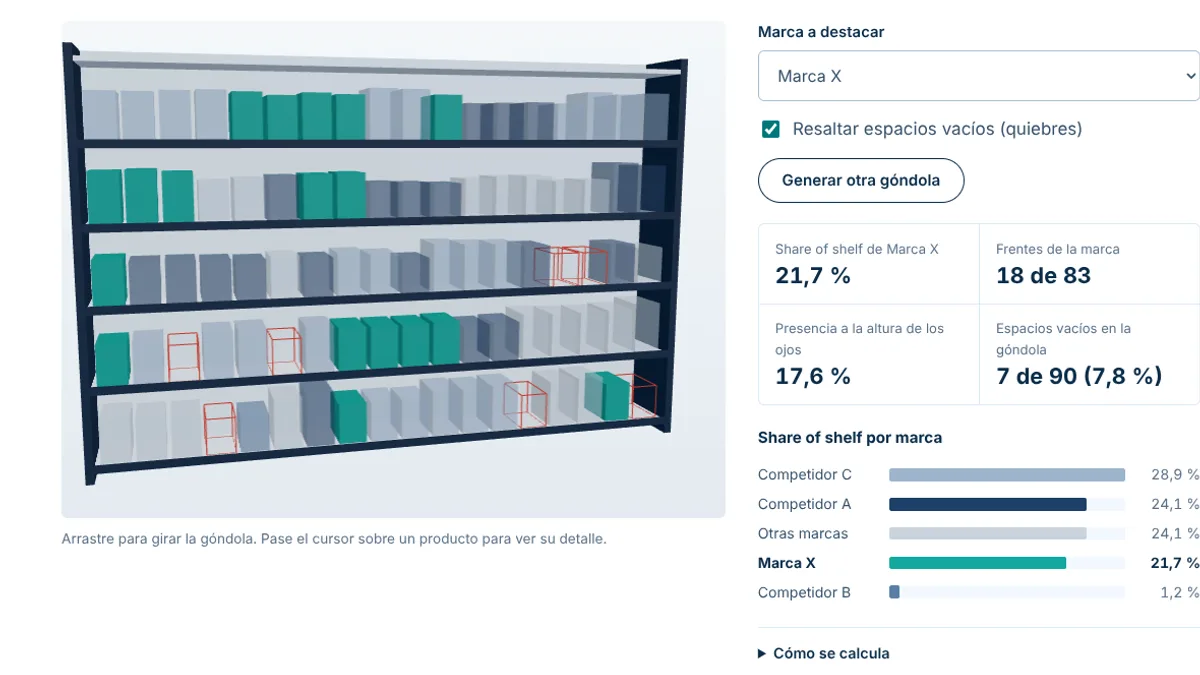
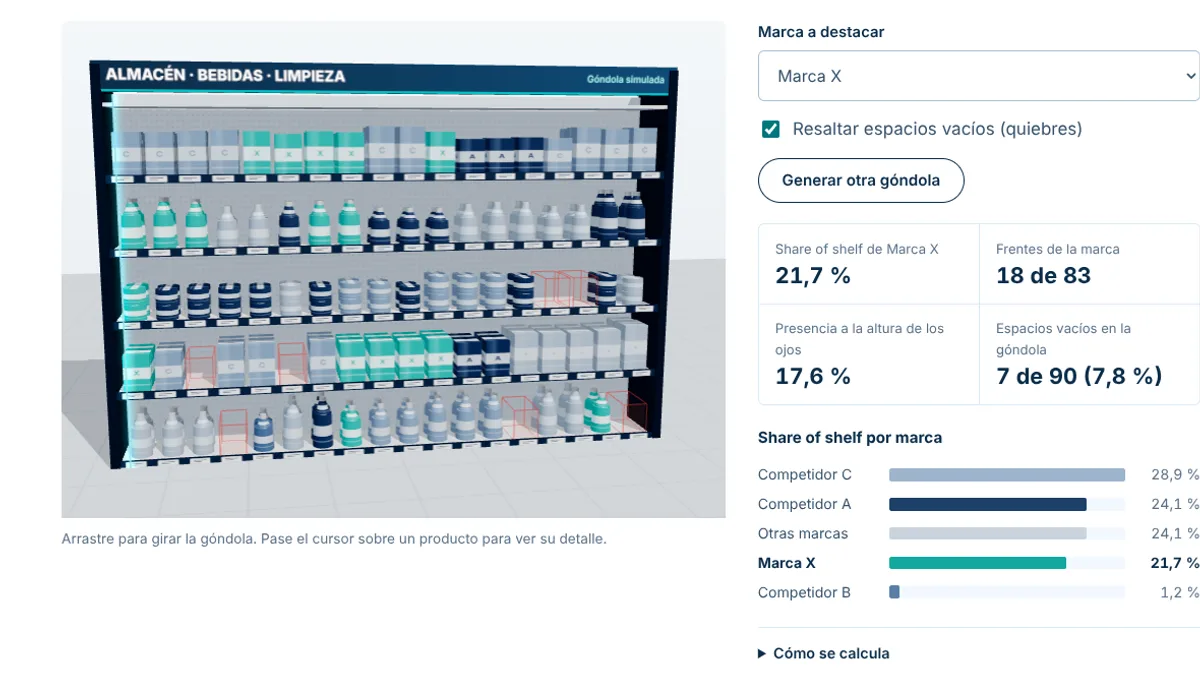
Góndola 3D: envases realistas, cartel, piso con sombras, haz de escaneo y vaivén automático
Claude-Session: https://claude.ai/code/session_01Cv3uZTgXXG78sRjimNaupE

Changed region(s): [[0.0308, 0.0622, 0.6167, 0.7778]]

diff --git a/src/assets/js/demo-gondola.js b/src/assets/js/demo-gondola.js
@@ -62,57 +62,141 @@ function iniciar() {
   const renderer = new THREE.WebGLRenderer({ antialias: true, alpha: true, preserveDrawingBuffer: true });
   renderer.setPixelRatio(Math.min(window.devicePixelRatio || 1, 2));
   renderer.outputColorSpace = THREE.SRGBColorSpace;
+  renderer.toneMapping = THREE.ACESFilmicToneMapping;
+  renderer.toneMappingExposure = 1.08;
+  renderer.shadowMap.enabled = true;
+  renderer.shadowMap.type = THREE.PCFSoftShadowMap;
   cont.appendChild(renderer.domElement);
   const escena = new THREE.Scene();
   const camara = new THREE.PerspectiveCamera(32, 1, 0.1, 100);
-  escena.add(new THREE.HemisphereLight(0xffffff, 0xb8c6d4, 1.6));
-  const luz = new THREE.DirectionalLight(0xffffff, 1.4); luz.position.set(3, 6, 8); escena.add(luz);
+  escena.add(new THREE.HemisphereLight(0xffffff, 0xaab9c9, 1.15));
+  const luz = new THREE.DirectionalLight(0xffffff, 1.9);
+  luz.position.set(4, 9, 9); luz.castShadow = true;
+  luz.shadow.mapSize.set(2048, 2048); Object.assign(luz.shadow.camera, { left: -7, right: 7, top: 8, bottom: -2, near: 1, far: 30 }); luz.shadow.bias = -0.0008;
+  escena.add(luz);
+  const relleno = new THREE.DirectionalLight(0xcfe9ff, 0.6); relleno.position.set(-6, 4, 5); escena.add(relleno);
 
   const ANCHO = 9, ALTO_E = 1.15, PROF = 1.1, paso = ANCHO / POSICIONES;
   const mueble = new THREE.Group();
-  const pieza = (geo, mat, x, y, z) => { const m = new THREE.Mesh(geo, mat); m.position.set(x, y, z); return m; };
-  const matMueble = new THREE.MeshStandardMaterial({ color: 0xe9eef3, roughness: 0.9 });
-  const matBorde = new THREE.MeshStandardMaterial({ color: 0x0e2a47, roughness: 0.6 });
-  mueble.add(pieza(new THREE.BoxGeometry(ANCHO + 0.3, ESTANTES * ALTO_E + 0.4, 0.08), matMueble, 0, (ESTANTES * ALTO_E) / 2, -PROF / 2));
-  [-1, 1].forEach((lado) => mueble.add(pieza(new THREE.BoxGeometry(0.12, ESTANTES * ALTO_E + 0.4, PROF), matBorde, lado * (ANCHO / 2 + 0.11), (ESTANTES * ALTO_E) / 2, 0)));
+  const pieza = (geo, mat, x, y, z, sombra = true) => { const m = new THREE.Mesh(geo, mat); m.position.set(x, y, z); m.castShadow = sombra; m.receiveShadow = true; return m; };
+  const lienzo = (w, h, dibujar) => { const c = document.createElement("canvas"); c.width = w; c.height = h; dibujar(c.getContext("2d"), w, h); const t = new THREE.CanvasTexture(c); t.colorSpace = THREE.SRGBColorSpace; t.anisotropy = 8; return t; };
+
+  // Fondo perforado del mueble
+  const texFondo = lienzo(256, 256, (g, w, h) => { g.fillStyle = "#EEF2F6"; g.fillRect(0, 0, w, h); g.fillStyle = "#C9D3DD"; for (let y = 8; y < h; y += 16) for (let x = 8; x < w; x += 16) { g.beginPath(); g.arc(x, y, 2.2, 0, Math.PI * 2); g.fill(); } });
+  texFondo.wrapS = texFondo.wrapT = THREE.RepeatWrapping; texFondo.repeat.set(7, 4);
+  const matMueble = new THREE.MeshStandardMaterial({ color: 0xf3f6f9, roughness: 0.55, metalness: 0.15 });
+  const matBorde = new THREE.MeshStandardMaterial({ color: 0x0b2d4a, roughness: 0.35, metalness: 0.5 });
+  mueble.add(pieza(new THREE.BoxGeometry(ANCHO + 0.3, ESTANTES * ALTO_E + 0.4, 0.08), new THREE.MeshStandardMaterial({ map: texFondo, roughness: 0.8 }), 0, (ESTANTES * ALTO_E) / 2, -PROF / 2));
+  [-1, 1].forEach((lado) => mueble.add(pieza(new THREE.BoxGeometry(0.14, ESTANTES * ALTO_E + 0.9, PROF + 0.1), matBorde, lado * (ANCHO / 2 + 0.12), (ESTANTES * ALTO_E + 0.5) / 2 - 0.1, 0)));
+  // Cartel superior iluminado
+  const texCartel = lienzo(2048, 100, (g, w, h) => {
+    const gr = g.createLinearGradient(0, 0, w, 0); gr.addColorStop(0, "#0B2D4A"); gr.addColorStop(1, "#0F4C78"); g.fillStyle = gr; g.fillRect(0, 0, w, h);
+    g.fillStyle = "#00C2C7"; g.fillRect(0, h - 8, w, 8);
+    g.fillStyle = "#FFFFFF"; g.font = "800 50px Inter, Segoe UI, Arial, sans-serif"; g.textBaseline = "middle"; g.fillText("ALMACÉN · BEBIDAS · LIMPIEZA", 48, h / 2 - 4);
+    g.fillStyle = "#9FF3F2"; g.font = "600 34px Inter, Segoe UI, Arial, sans-serif"; g.textAlign = "right"; g.fillText("Góndola simulada", w - 48, h / 2 - 4);
+  });
+  const cartel = pieza(new THREE.BoxGeometry(ANCHO + 0.38, 0.46, 0.12), [matBorde, matBorde, matBorde, matBorde, new THREE.MeshBasicMaterial({ map: texCartel, toneMapped: false }), matBorde], 0, ESTANTES * ALTO_E + 0.42, PROF / 2 - 0.05);
+  mueble.add(cartel);
+  // Estantes con frentes de precio
+  const texRiel = lienzo(1024, 32, (g, w, h) => { g.fillStyle = "#0B2D4A"; g.fillRect(0, 0, w, h); for (let i = 0; i < POSICIONES; i++) { const x = (i + 0.5) * (w / POSICIONES); g.fillStyle = "#FFFFFF"; g.fillRect(x - 18, 5, 36, h - 10); g.fillStyle = "#0B2D4A"; g.fillRect(x - 12, 11, 24, 3); g.fillRect(x - 12, 17, 15, 3); } });
   for (let e = 0; e <= ESTANTES; e++) {
     const y = e * ALTO_E;
-    mueble.add(pieza(new THREE.BoxGeometry(ANCHO + 0.1, 0.07, PROF), matMueble, 0, y, 0));
-    if (e < ESTANTES) mueble.add(pieza(new THREE.BoxGeometry(ANCHO + 0.1, 0.12, 0.03), matBorde, 0, y + 0.02, PROF / 2));
+    mueble.add(pieza(new THREE.BoxGeometry(ANCHO + 0.1, 0.06, PROF), matMueble, 0, y, 0));
+    if (e < ESTANTES) mueble.add(pieza(new THREE.BoxGeometry(ANCHO + 0.1, 0.13, 0.03), [matBorde, matBorde, matBorde, matBorde, new THREE.MeshStandardMaterial({ map: texRiel, roughness: 0.5 }), matBorde], 0, y + 0.02, PROF / 2, false));
   }
   escena.add(mueble);
+  // Piso con baldosas y sombra de contacto
+  const texPiso = lienzo(512, 512, (g, w, h) => { g.fillStyle = "#E6ECF2"; g.fillRect(0, 0, w, h); g.strokeStyle = "#D2DBE4"; g.lineWidth = 3; for (let k = 0; k <= w; k += 128) { g.beginPath(); g.moveTo(k, 0); g.lineTo(k, h); g.stroke(); g.beginPath(); g.moveTo(0, k); g.lineTo(w, k); g.stroke(); } });
+  texPiso.wrapS = texPiso.wrapT = THREE.RepeatWrapping; texPiso.repeat.set(8, 8);
+  const piso = new THREE.Mesh(new THREE.PlaneGeometry(40, 40), new THREE.MeshStandardMaterial({ map: texPiso, roughness: 0.35, metalness: 0.1 }));
+  piso.rotation.x = -Math.PI / 2; piso.position.y = -0.02; piso.receiveShadow = true; escena.add(piso);
+
+  // Etiquetas de cada marca (frente del envase)
+  const etiquetas = MARCAS.map((m, k) => lienzo(128, 256, (g, w, h) => {
+    g.fillStyle = m.color; g.fillRect(0, 0, w, h);
+    g.fillStyle = "rgba(255,255,255,.92)"; g.fillRect(0, h * 0.34, w, h * 0.3);
+    g.fillStyle = m.color; g.font = "800 44px Inter, Segoe UI, Arial, sans-serif"; g.textAlign = "center"; g.textBaseline = "middle";
+    g.fillText(k === 0 ? "X" : k === 4 ? "•" : String.fromCharCode(64 + k), w / 2, h * 0.49);
+    g.fillStyle = "rgba(255,255,255,.35)"; g.fillRect(0, h * 0.78, w, 10);
+    const brillo = g.createLinearGradient(0, 0, w, 0); brillo.addColorStop(0, "rgba(255,255,255,.0)"); brillo.addColorStop(.35, "rgba(255,255,255,.22)"); brillo.addColorStop(.5, "rgba(255,255,255,0)"); g.fillStyle = brillo; g.fillRect(0, 0, w, h);
+  }));
+  const matsProducto = new Map();
+  const matProd = (marca, destacado) => {
+    const clave = marca + (destacado ? "d" : "n");
+    if (!matsProducto.has(clave)) {
+      const base = new THREE.Color(MARCAS.at(marca).color);
+      matsProducto.set(clave, new THREE.MeshStandardMaterial({
+        map: etiquetas.at(marca), roughness: 0.42, metalness: 0.05,
+        color: destacado ? 0xffffff : 0xdfe6ec, emissive: destacado ? base : 0x000000, emissiveIntensity: destacado ? 0.18 : 0,
+      }));
+    }
+    return matsProducto.get(clave);
+  };
+  // Formas de envase por estante: cajas arriba, botellas, latas, cajas grandes y bidones abajo
+  const anchoEnv = paso * 0.84, hondo = PROF * 0.62;
+  const GEO = {
+    caja: new THREE.BoxGeometry(anchoEnv, 1, hondo * 0.7).translate(0, 0.5, 0),
+    botella: new THREE.CylinderGeometry(anchoEnv * 0.36, anchoEnv * 0.42, 1, 24).translate(0, 0.5, 0),
+    cuello: new THREE.CylinderGeometry(anchoEnv * 0.13, anchoEnv * 0.3, 0.3, 16).translate(0, 0.15, 0),
+    tapa: new THREE.CylinderGeometry(anchoEnv * 0.14, anchoEnv * 0.14, 0.07, 16).translate(0, 0.035, 0),
+    lata: new THREE.CylinderGeometry(anchoEnv * 0.42, anchoEnv * 0.42, 1, 28).translate(0, 0.5, 0),
+  };
+  const TIPO = ["caja", "botella", "lata", "caja", "botella"];
+  const matTapa = new THREE.MeshStandardMaterial({ color: 0xf2f5f8, roughness: 0.3, metalness: 0.4 });
 
   const productos = new THREE.Group(); escena.add(productos);
-  const geoProd = new THREE.BoxGeometry(paso * 0.86, 1, PROF * 0.7);
-  geoProd.translate(0, 0.5, 0);
+  const quiebres = [];
   const geoVacio = new THREE.EdgesGeometry(new THREE.BoxGeometry(paso * 0.86, 0.55, PROF * 0.7));
+  const geoAviso = new THREE.PlaneGeometry(paso * 0.86, 0.55);
 
   let semilla = 7, estantes = generar(semilla), marcaFoco = 0;
 
+  function envase(tipo, marca, alto, destacado, datos) {
+    const g = new THREE.Group(); const mat = matProd(marca, destacado);
+    const agregar = (geo, m, y, sy = 1) => { const x = new THREE.Mesh(geo, m); x.position.y = y; x.scale.y = sy; x.castShadow = true; x.receiveShadow = true; x.userData = datos; g.add(x); return x; };
+    if (tipo === "botella") { const cuerpo = alto * 0.72; agregar(GEO.botella, mat, 0, cuerpo); agregar(GEO.cuello, mat, cuerpo, alto * 0.85); agregar(GEO.tapa, matTapa, cuerpo + 0.3 * alto * 0.85); }
+    else if (tipo === "lata") { const h = Math.min(0.62, alto * 0.78); agregar(GEO.lata, mat, 0, h * 0.5); agregar(GEO.lata, mat, h * 0.5 + 0.01, h * 0.5); }
+    else agregar(GEO.caja, mat, 0, alto);
+    return g;
+  }
+
   function construir() {
-    productos.clear();
+    productos.clear(); quiebres.length = 0;
     estantes.forEach((fila, e) => {
-      const yBase = (ESTANTES - 1 - e) * ALTO_E + 0.035; // e = 0 es el estante de arriba
+      const yBase = (ESTANTES - 1 - e) * ALTO_E + 0.03; // e = 0 es el estante de arriba
+      const tipo = TIPO.at(e);
       fila.forEach((p, i) => {
         const x = -ANCHO / 2 + paso * (i + 0.5);
         if (!p) {
-          const l = new THREE.LineSegments(geoVacio, new THREE.LineBasicMaterial({ color: 0xc0392b }));
-          l.position.set(x, yBase + 0.275, 0); l.userData = { vacio: true, e, i }; l.visible = chkVacios.checked;
-          productos.add(l); return;
+          const l = new THREE.LineSegments(geoVacio, new THREE.LineBasicMaterial({ color: 0xd9342b, transparent: true }));
+          l.position.set(x, yBase + 0.275, 0.1); l.userData = { vacio: true, e, i }; l.visible = chkVacios.checked;
+          const aviso = new THREE.Mesh(geoAviso, new THREE.MeshBasicMaterial({ color: 0xff4d3d, transparent: true, opacity: 0.12, depthWrite: false }));
+          aviso.position.set(x, yBase + 0.275, PROF * 0.38); aviso.userData = { vacio: true, e, i }; aviso.visible = chkVacios.checked;
+          productos.add(l, aviso); quiebres.push({ l, aviso, x }); return;
         }
-        const m = MARCAS.at(p.marca);
         const destacado = p.marca === marcaFoco;
-        const mesh = new THREE.Mesh(geoProd, new THREE.MeshStandardMaterial({
-          color: m.color, roughness: 0.55, transparent: !destacado, opacity: destacado ? 1 : 0.55,
-        }));
-        mesh.scale.y = p.alto; mesh.position.set(x, yBase, 0);
-        mesh.userData = { marca: m.nombre, e, i };
-        productos.add(mesh);
+        const datos = { marca: MARCAS.at(p.marca).nombre, e, i, destacado };
+        // dos frentes de fondo, como en una góndola real
+        [0.16, -0.2].forEach((z, k) => {
+          const g = envase(tipo, p.marca, p.alto * (k ? 0.97 : 1), destacado, datos);
+          g.position.set(x, yBase, z);
+          productos.add(g);
+        });
       });
     });
     actualizarPanel();
-    pedir();
   }
+
+  // Haz de escaneo que recorre la góndola (auditoría simulada)
+  const haz = new THREE.Mesh(new THREE.PlaneGeometry(0.5, ESTANTES * ALTO_E + 0.3), new THREE.ShaderMaterial({
+    transparent: true, depthWrite: false, blending: THREE.AdditiveBlending,
+    uniforms: { uColor: { value: new THREE.Color(0x00c2c7) } },
+    vertexShader: "varying vec2 vUv; void main(){ vUv = uv; gl_Position = projectionMatrix * modelViewMatrix * vec4(position,1.0); }",
+    fragmentShader: "varying vec2 vUv; uniform vec3 uColor; void main(){ float a = pow(1.0 - abs(vUv.x - 0.5) * 2.0, 3.0) * 0.55; gl_FragColor = vec4(uColor, a); }",
+  }));
+  haz.position.set(-ANCHO / 2, (ESTANTES * ALTO_E) / 2, PROF / 2 + 0.06); escena.add(haz);
+  const lineaHaz = new THREE.Mesh(new THREE.PlaneGeometry(0.025, ESTANTES * ALTO_E + 0.3), new THREE.MeshBasicMaterial({ color: 0x5fe3ff, transparent: true, opacity: 0.9 }));
+  haz.add(lineaHaz);
 
   // Panel de indicadores y gráfico de barras
   const fmt = (x) => `${(x * 100).toFixed(1).replace(".", ",")} %`;
@@ -130,21 +214,42 @@ function iniciar() {
       `<div class="barra${f.i === marcaFoco ? " barra--foco" : ""}"><span class="barra__nombre">${f.nombre}</span><span class="barra__pista"><span class="barra__valor" style="width:${(f.share / max) * 100}%;background:${f.color}"></span></span><span class="barra__num">${fmt(f.share)}</span></div>`).join("");
   }
 
-  // Cámara con giro por arrastre
-  let azim = -0.25, elev = 0.12, arrastre = null, ancho = 1, alto = 1;
+  // Cámara: giro por arrastre y leve vaivén automático (4D)
+  let azim = -0.25, elev = 0.12, arrastre = null, ancho = 1, alto = 1, quieto = performance.now();
+  const reducido = window.matchMedia("(prefers-reduced-motion: reduce)").matches;
   function ajustar() {
     const r = cont.getBoundingClientRect(); ancho = Math.max(1, r.width); alto = Math.max(1, r.height);
     renderer.setSize(ancho, alto, false); camara.aspect = ancho / alto; camara.updateProjectionMatrix(); pedir();
   }
-  function colocarCamara() {
-    const dist = camara.aspect < 1 ? 22 : 13.5;
-    camara.position.set(Math.sin(azim) * dist, 3 + Math.sin(elev) * dist, Math.cos(azim) * dist);
-    camara.lookAt(0, (ESTANTES * ALTO_E) / 2 - 0.2, 0);
+  function colocarCamara(t) {
+    const dist = camara.aspect < 1 ? 23 : 14.6;
+    const libre = !arrastre && !reducido && t - quieto > 2500;
+    const va = libre ? Math.sin(t / 2600) * 0.16 : 0, ve = libre ? Math.sin(t / 3700) * 0.04 : 0;
+    camara.position.set(Math.sin(azim + va) * dist, 3 + Math.sin(elev + ve) * dist, Math.cos(azim + va) * dist);
+    camara.lookAt(0, (ESTANTES * ALTO_E) / 2 + 0.15, 0);
   }
-  let pendiente = false;
-  function pedir() { if (!pendiente) { pendiente = true; requestAnimationFrame(() => { pendiente = false; colocarCamara(); renderer.render(escena, camara); }); } }
-  cont.addEventListener("pointerdown", (e) => { arrastre = { x: e.clientX, y: e.clientY, a: azim, el: elev }; cont.setPointerCapture(e.pointerId); });
-  cont.addEventListener("pointerup", () => (arrastre = null));
+  let visible = true, corriendo = false;
+  new IntersectionObserver((e) => { visible = e[0].isIntersecting; if (visible) pedir(); }).observe(cont);
+  function cuadro(t) {
+    corriendo = false;
+    colocarCamara(t);
+    // el haz cruza la góndola cada 6 segundos; los quiebres laten al ser detectados
+    const u = reducido ? 1.2 : ((t / 6000) % 1) * 1.25 - 0.1;
+    const xh = -ANCHO / 2 + u * ANCHO;
+    haz.visible = !reducido && u >= 0 && u <= 1;
+    haz.position.x = xh;
+    quiebres.forEach((q) => {
+      const detectado = xh >= q.x;
+      const latido = detectado ? 0.5 + 0.5 * Math.sin(t / 180) : 0;
+      q.aviso.material.opacity = detectado ? 0.12 + latido * 0.28 : 0.08;
+      q.l.material.opacity = detectado ? 0.6 + latido * 0.4 : 0.5;
+    });
+    renderer.render(escena, camara);
+    if (visible && !reducido) pedir();
+  }
+  function pedir() { if (!corriendo) { corriendo = true; requestAnimationFrame(cuadro); } }
+  cont.addEventListener("pointerdown", (e) => { arrastre = { x: e.clientX, y: e.clientY, a: azim, el: elev }; quieto = performance.now(); cont.setPointerCapture(e.pointerId); });
+  cont.addEventListener("pointerup", () => { arrastre = null; quieto = performance.now(); });
   const ray = new THREE.Raycaster(), ptr = new THREE.Vector2();
   cont.addEventListener("pointermove", (e) => {
     if (arrastre) {
@@ -155,7 +260,7 @@ function iniciar() {
     const r = cont.getBoundingClientRect();
     ptr.set(((e.clientX - r.left) / r.width) * 2 - 1, -((e.clientY - r.top) / r.height) * 2 + 1);
     ray.setFromCamera(ptr, camara);
-    const hit = ray.intersectObjects(productos.children.filter((o) => o.isMesh), false)[0];
+    const hit = ray.intersectObjects(productos.children.filter((o) => o.isGroup), true)[0];
     if (hit) {
       const d = hit.object.userData;
       tip.textContent = `${d.marca} · estante ${d.e + 1} · posición ${d.i + 1}`;
@@ -165,12 +270,12 @@ function iniciar() {
   });
   cont.addEventListener("pointerleave", () => (tip.hidden = true));
 
-  sel.addEventListener("change", () => { marcaFoco = Number(sel.value); construir(); });
+  sel.addEventListener("change", () => { marcaFoco = Number(sel.value); construir(); pedir(); });
   chkVacios.addEventListener("change", () => { productos.children.forEach((o) => { if (o.userData.vacio) o.visible = chkVacios.checked; }); pedir(); });
-  raiz.querySelector("#g-nueva").addEventListener("click", () => { semilla += 1; estantes = generar(semilla); construir(); });
+  raiz.querySelector("#g-nueva").addEventListener("click", () => { semilla += 1; estantes = generar(semilla); construir(); pedir(); });
 
   new ResizeObserver(ajustar).observe(cont);
-  ajustar(); construir();
+  ajustar(); construir(); pedir();
   window.__demoListo = true;
 }
 
